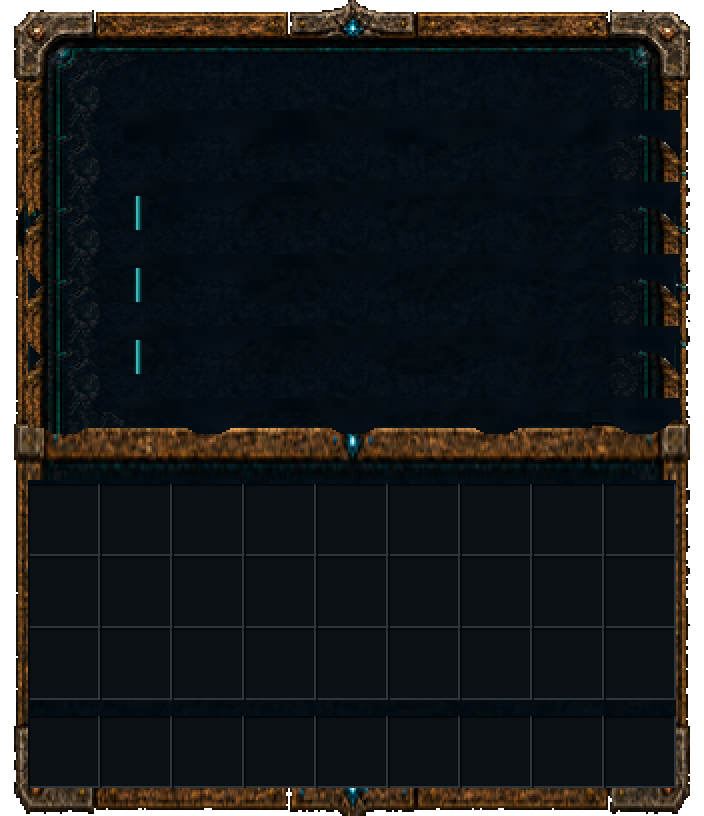
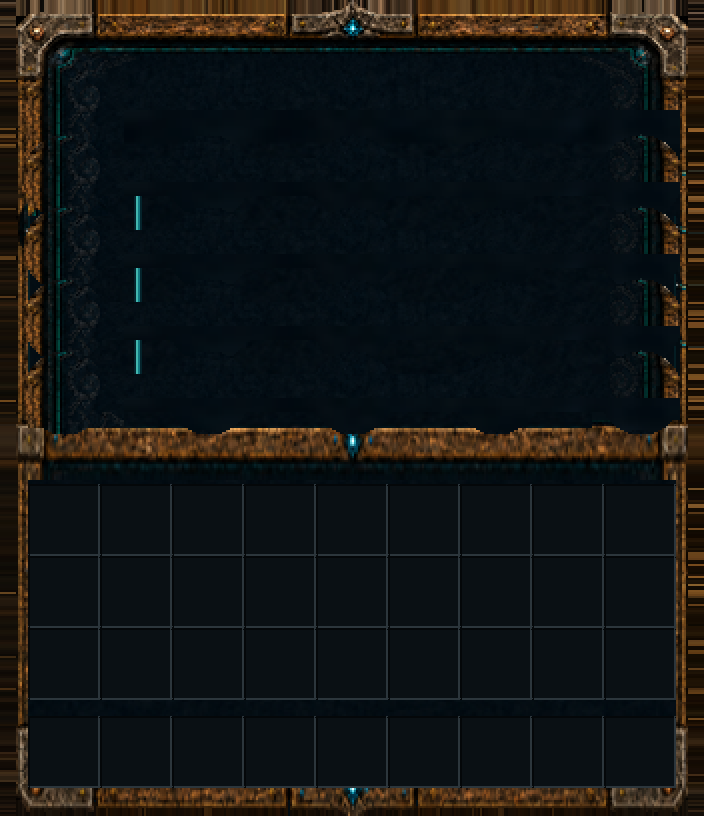
트리 배경 가장자리 수정 — 투명화 폐기, 엣지 클램프로 검은 여백 제거
★투명화가 역효과였다: 상자 GUI는 바닐라 generic_54(밝은 회색)가 글리프 **아래** 깔려 있어서
  투명 자리에 흰 띠가 비쳐 나왔다(우측·하단에 흰 막대). 검정보다 나쁘다.

근본 원인 측정: 원본 아트의 프레임이 좌 8px / 우 9px(2배) 안쪽으로 들어가 있다.
창은 176 GUI px인데 프레임이 168px만 덮으니 나머지가 남는다.
  · 가로로 늘리면 슬롯 격자·프레임 두께가 어긋난다 → 불가
  · 투명은 위 이유로 불가
  → **엣지 클램프**: 바깥 띠 안에서만 같은 행/열의 가장 가까운 프레임 픽셀을 끌어와 채운다.
    가로 1차(좌우 여백) → 세로 2차(남은 둥근 모서리). 프레임 마감이 몇 px 늘어날 뿐이다.

검증: 가장자리 검은 픽셀 0개, 투명 픽셀 0개, 바닐라 회색 배경 위에 얹어 누출 없음 확인.

Changed region(s): [[0.0, 0.0, 1.0, 1.0]]

diff --git a/gui-forge/build_skilltree_bg.py b/gui-forge/build_skilltree_bg.py
@@ -166,25 +166,50 @@ def main():
     # ② 정수배 확대 (원본 2배 → SCALE배)
     im = art.resize((W, H), Image.NEAREST) if SCALE != 2 else art
 
-    # ③ 프레임 바깥(둥근 모서리 밖)을 투명하게 — 원본은 RGB라 그 자리가 검정으로 남는다.
-    #    네 모서리에서 "거의 검정"만 flood fill. 패널 안쪽 어두운 벽면은 모서리와 연결되지
-    #    않으므로 절대 안 지워진다(임계값만 쓰면 패널까지 날아간다).
+    # ③ 창 가장자리의 검은 여백을 프레임으로 메운다 (**엣지 클램프**)
+    #   측정: 원본 프레임이 좌 8px / 우 9px(2배) 안쪽으로 들어가 있고 모서리는 둥글다.
+    #   창은 176 GUI px인데 프레임이 168px만 덮으니 나머지가 검정으로 남는다.
+    #   ★투명으로 만들면 안 된다 — 상자 GUI는 바닐라 generic_54(밝은 회색)가 글리프 **아래**
+    #     깔려 있어 투명 자리에 흰 띠가 비쳐 나온다(실제로 그렇게 터졌다).
+    #   ★가로로 늘리는 것도 안 된다 — 슬롯 격자와 프레임 두께가 어긋난다.
+    #   → 바깥 띠(MARGIN) 안에서만, 같은 행/열의 가장 가까운 프레임 픽셀을 끌어와 채운다.
+    #     프레임 바깥쪽 마감이 몇 px 늘어나는 것뿐이라 나뭇결·석재에선 보이지 않는다.
     im = im.convert("RGBA")
     px = im.load()
     W_, H_ = im.size
-    for sx, sy in ((0, 0), (W_ - 1, 0), (0, H_ - 1), (W_ - 1, H_ - 1)):
-        if sum(px[sx, sy][:3]) > 24:
-            continue
-        stack, seen = [(sx, sy)], set()
-        while stack:
-            x, y = stack.pop()
-            if (x, y) in seen or not (0 <= x < W_ and 0 <= y < H_):
-                continue
-            seen.add((x, y))
-            if sum(px[x, y][:3]) > 24:
-                continue
-            px[x, y] = (0, 0, 0, 0)
-            stack += [(x + 1, y), (x - 1, y), (x, y + 1), (x, y - 1)]
+    MARGIN = 8 * SCALE // 2                        # 원본 여백(2배 9px)보다 넉넉히
+    def is_dark(x, y):
+        return sum(px[x, y][:3]) <= 24
+    for y in range(H_):                            # 1차: 가로 클램프 (좌우 여백)
+        for x in range(MARGIN):
+            if is_dark(x, y):
+                sx = x
+                while sx < W_ and is_dark(sx, y):
+                    sx += 1
+                if sx < W_:
+                    px[x, y] = px[sx, y]
+        for x in range(W_ - 1, W_ - MARGIN - 1, -1):
+            if is_dark(x, y):
+                sx = x
+                while sx >= 0 and is_dark(sx, y):
+                    sx -= 1
+                if sx >= 0:
+                    px[x, y] = px[sx, y]
+    for x in range(W_):                            # 2차: 세로 클램프 (남은 모서리)
+        for y in range(MARGIN):
+            if is_dark(x, y):
+                sy = y
+                while sy < H_ and is_dark(x, sy):
+                    sy += 1
+                if sy < H_:
+                    px[x, y] = px[x, sy]
+        for y in range(H_ - 1, H_ - MARGIN - 1, -1):
+            if is_dark(x, y):
+                sy = y
+                while sy >= 0 and is_dark(x, sy):
+                    sy -= 1
+                if sy >= 0:
+                    px[x, y] = px[x, sy]
 
     # ④ 플레이어 인벤 36칸 음각
     px = im.load()
